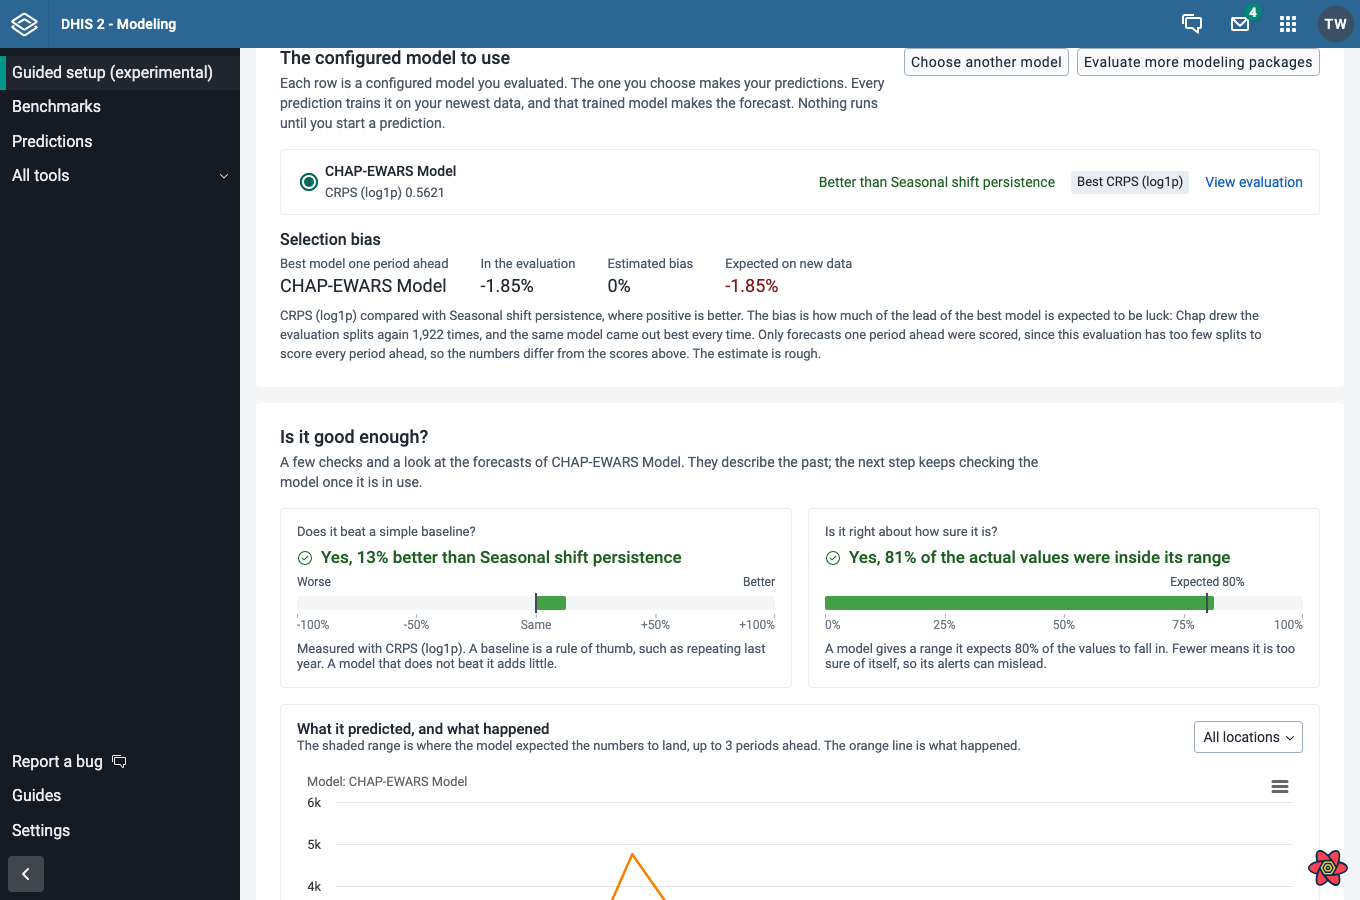
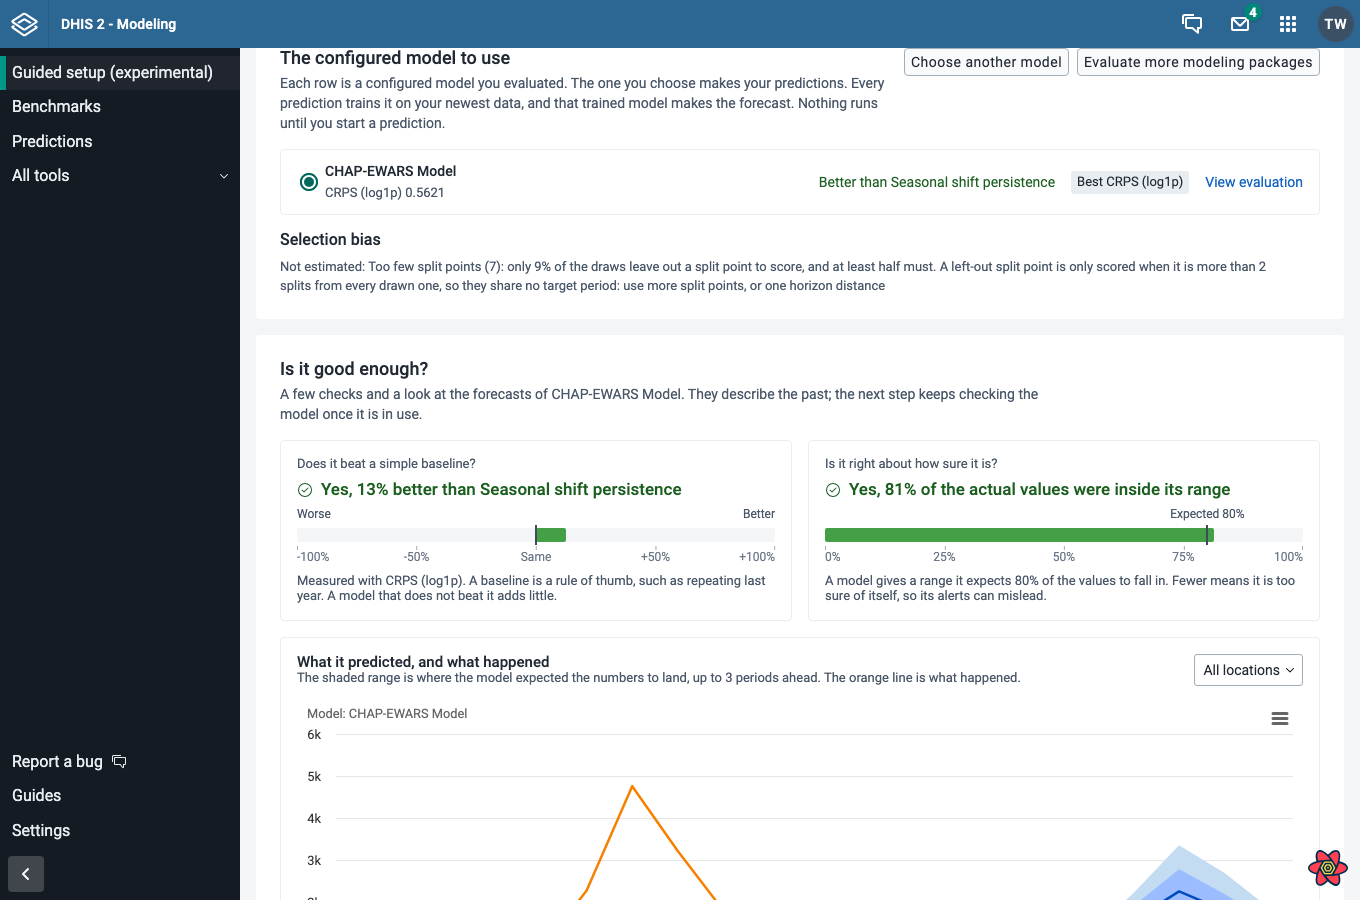
fix: estimate the selection bias only over all periods ahead [CLIM-1752]
Where Chap Core could not estimate the bias over every period ahead, the
summary fell back to forecasts one period ahead. One period ahead another
model can be best than over all periods, so the summary could describe a
different model than the one marked as best. It now shows numbers only
for the scoring the models are ranked by, and otherwise gives the reason
from Chap Core, such as too few splits.

diff --git a/apps/modeling-app/src/components/SelectionBias/SelectionBiasSummary.test.ts b/apps/modeling-app/src/components/SelectionBias/SelectionBiasSummary.test.ts
@@ -1,9 +1,9 @@
 import { createElement } from 'react';
 import { renderToStaticMarkup } from 'react-dom/server';
 import { beforeEach, expect, it, vi } from 'vitest';
-import type { BacktestSpecificationRead, MetricInfo } from '@dhis2-chap/ui';
+import type { BacktestSpecificationRead, MetricInfo, SelectionBias } from '@dhis2-chap/ui';
 import { SelectionBiasSummary } from './SelectionBiasSummary';
-import { useSelectionBias, type SelectionBiasResult } from './useSelectionBias';
+import { useSelectionBias } from './useSelectionBias';
 
 vi.mock('./useSelectionBias', () => ({ useSelectionBias: vi.fn() }));
 
@@ -18,7 +18,7 @@ const specification = {
     ],
 } as BacktestSpecificationRead;
 
-const bias: SelectionBiasResult = {
+const bias: SelectionBias = {
     metricId: 'crps_log1p',
     baselineModel: 'seasonal_shift_persistence',
     comparisonDescription: '',
@@ -36,10 +36,9 @@ const bias: SelectionBiasResult = {
     blockSize: 3,
     nDraws: 2000,
     nDrawsScored: 1500,
-    isFirstHorizonOnly: false,
 };
 
-const query = (result: { data?: SelectionBiasResult; error?: unknown }) => vi.mocked(useSelectionBias).mockReturnValue(result as ReturnType<typeof useSelectionBias>);
+const query = (result: { data?: SelectionBias; error?: unknown }) => vi.mocked(useSelectionBias).mockReturnValue(result as ReturnType<typeof useSelectionBias>);
 const render = (props: Partial<Parameters<typeof SelectionBiasSummary>[0]> = {}) =>
     renderToStaticMarkup(createElement(SelectionBiasSummary, { specification, metric, ...props }));
 const text = (html: string) => html.replace(/<[^>]+>/g, ' ').replace(/\s+/g, ' ');
@@ -58,11 +57,9 @@ it('says what the best model scored, how much of it is luck and what to expect o
     expect(html).toContain('A split left out of a draw only counts when it forecasts no period that a drawn split also forecasts.');
 });
 
-it('says when only forecasts one period ahead could be scored', () => {
-    query({ data: { ...bias, horizonDistances: [1], gapSplits: 0, isFirstHorizonOnly: true } });
+it('leaves out what does not apply to an evaluation of one period ahead', () => {
+    query({ data: { ...bias, horizonDistances: [1], gapSplits: 0 } });
     const html = render();
-    expect(text(html)).toContain('Best model one period ahead auto_regressive_monthly In the evaluation');
-    expect(html).toContain('Only forecasts one period ahead were scored');
     expect(html).not.toContain('Scored on forecasts');
     expect(html).not.toContain('A split left out of a draw');
 });
@@ -83,8 +80,8 @@ it('falls back to the name Chap Core gives the model, and colours a model that i
 });
 
 it('gives the reason when Chap Core cannot estimate it', () => {
-    query({ error: { status: 422, body: { detail: 'Too few split points (3)' } } });
-    expect(text(render())).toContain('Selection bias Not estimated: Too few split points (3)');
+    query({ error: { status: 422, body: { detail: 'Too few split points (7)' } } });
+    expect(text(render())).toContain('Selection bias Not estimated: Too few split points (7)');
 });
 
 it('renders nothing until there is an estimate, and does not count a model evaluated twice as two', () => {

diff --git a/apps/modeling-app/src/components/SelectionBias/useSelectionBias.ts b/apps/modeling-app/src/components/SelectionBias/useSelectionBias.ts
@@ -2,34 +2,18 @@ import { useQuery } from '@tanstack/react-query';
 import { ApiError, BacktestsService, type SelectionBias } from '@dhis2-chap/ui';
 import { Features, useIsFeatureAvailable } from '../../hooks/useIsFeatureAvailable';
 
-export type SelectionBiasResult = SelectionBias & {
-    /** The evaluation has too few splits to score every period ahead, so only forecasts one period ahead were scored. */
-    isFirstHorizonOnly: boolean;
-};
-
-const readSelectionBias = (specificationId: number, metricId?: string, horizonDistance?: number) => (
-    BacktestsService.getBacktestSpecificationSelectionBiasV1CrudBacktestSpecificationsSpecificationIdSelectionBiasGet(specificationId, metricId, undefined, horizonDistance)
-);
-
 /**
  * How much of the lead of the best model in an evaluation is luck. Chap Core draws the splits
  * of the evaluation again and again and sees which model comes out best each time; no model is
- * run again. Scoring every period ahead takes more splits than a default evaluation has, so the
- * estimate falls back to forecasts one period ahead.
+ * run again. Every period ahead is scored, as in the scores the models are ranked by, which
+ * takes more splits than a default evaluation has; Chap Core then says so instead.
  */
 export const useSelectionBias = (specificationId: number, metricId: string | undefined, modelCount: number) => {
     const { isAvailable } = useIsFeatureAvailable(Features.SELECTION_BIAS);
-    return useQuery<SelectionBiasResult, ApiError>({
+    return useQuery<SelectionBias, ApiError>({
         // Under the specifications, so it is read again when a model finishes.
         queryKey: ['backtest-specifications', specificationId, 'selection-bias', metricId ?? null],
-        queryFn: async () => {
-            try {
-                return { ...await readSelectionBias(specificationId, metricId), isFirstHorizonOnly: false };
-            } catch (error) {
-                if (!(error instanceof ApiError) || error.status !== 422) throw error;
-                return { ...await readSelectionBias(specificationId, metricId, 1), isFirstHorizonOnly: true };
-            }
-        },
+        queryFn: () => BacktestsService.getBacktestSpecificationSelectionBiasV1CrudBacktestSpecificationsSpecificationIdSelectionBiasGet(specificationId, metricId),
         // There is nothing to pick between with a single model.
         enabled: isAvailable && modelCount > 1,
         retry: false,

diff --git a/apps/modeling-app/src/components/SelectionBias/SelectionBiasSummary.tsx b/apps/modeling-app/src/components/SelectionBias/SelectionBiasSummary.tsx
@@ -57,8 +57,7 @@ export const SelectionBiasSummary = ({ specification, metric, getModelName }: Pr
             {title}
             <dl className={styles.stats}>
                 <div className={styles.stat}>
-                    {/* One period ahead, the best model can be another one than the page marks as best. */}
-                    <dt className={styles.label}>{data.isFirstHorizonOnly ? i18n.t('Best model one period ahead') : i18n.t('Best model')}</dt>
+                    <dt className={styles.label}>{i18n.t('Best model')}</dt>
                     <dd className={styles.value}>{getModelName?.(data.selectedBacktestId) ?? (best ? getConfiguredModelName({ name: best.modelName }) : '—')}</dd>
                 </div>
                 <div className={styles.stat}>
@@ -92,9 +91,7 @@ export const SelectionBiasSummary = ({ specification, metric, getModelName }: Pr
                                 colon: ':',
                                 draws,
                             }),
-                    data.isFirstHorizonOnly
-                        ? i18n.t('Only forecasts one period ahead were scored, since this evaluation has too few splits to score every period ahead, so the numbers differ from the scores above.')
-                        : nearest !== farthest && i18n.t('Scored on forecasts {{nearest}} to {{farthest}} periods ahead.', { nearest, farthest }),
+                    nearest !== farthest && i18n.t('Scored on forecasts {{nearest}} to {{farthest}} periods ahead.', { nearest, farthest }),
                     data.gapSplits > 0 && i18n.t('A split left out of a draw only counts when it forecasts no period that a drawn split also forecasts.'),
                     i18n.t('The estimate is rough.'),
                 ].filter(Boolean).join(' ')}

diff --git a/docs/modeling-workflow-proposal.md b/docs/modeling-workflow-proposal.md
@@ -85,8 +85,10 @@ better than it is. Chap draws the splits of the evaluation again some two thousa
 (a bootstrap over its split points) and picks the best model each time; the bias comes
 from the draws that pick another model. No model is run again, and no model has to be
 chosen first: the numbers are about the best one, whichever one is chosen. It needs Chap
-Core 2.9.0 and at least two evaluated models. With the default seven splits only forecasts
-one period ahead can be scored, which the summary says.
+Core 2.9.0, at least two evaluated models and enough splits to score every period ahead,
+as the scores the models are ranked by do: 9 splits with two periods ahead and 20 with
+three. With the default seven splits the summary says that it could not be estimated, and
+why.
 
 These are the questions the evaluation webinars teach, and the chart follows the forecast
 band and model-against-baseline blocks in
